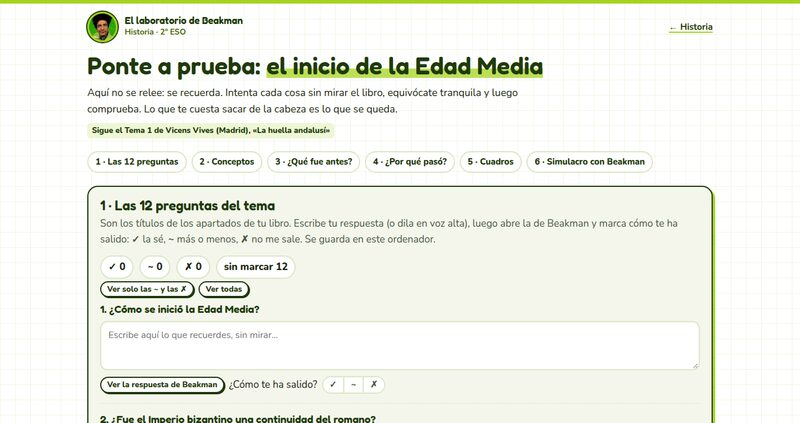
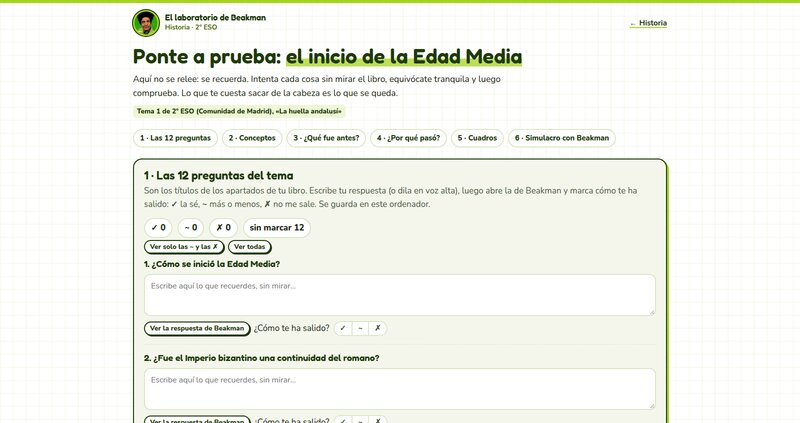
lab: recursos ordenados por tema dentro de cada curso; «Tema 1» también en Ciencias
- catalog.yml: campo unidad en cada recurso; build.py agrupa por él (en el orden del catálogo,
  «Para todo el curso» al final) con un título del color de la asignatura.
- Ciencias: «Física y Química · Tema 1 · La actividad científica».
- La miniatura de «Ponte a prueba» se rehace: la vieja aún llevaba el nombre de la editorial.

Changed region(s): [[0.0, 0.0, 1.0, 1.0]]

diff --git a/lab/site/es/ciencias/index.html b/lab/site/es/ciencias/index.html
@@ -13,7 +13,7 @@
 <link rel="preconnect" href="https://fonts.googleapis.com">
 <link rel="preconnect" href="https://fonts.gstatic.com" crossorigin>
 <link rel="stylesheet" href="https://fonts.googleapis.com/css2?family=Fredoka:wght@500;600;700&family=Nunito:ital,wght@0,400;0,600;0,700;0,800;1,400&display=swap">
-<link rel="stylesheet" href="../../lab.css?v=72c818f3">
+<link rel="stylesheet" href="../../lab.css?v=efac4fdf">
 </head>
 <body>
 <header class="wrap top">
@@ -30,21 +30,22 @@
   <a class="summary" href="2eso/resumen-actividad-cientifica/" style="--subj: #69DB7C">
     <img src="../../media/resumen-actividad-cientifica.jpg" alt="" width="800" height="423" loading="lazy">
     <div class="body">
-      <div class="meta"><span class="subj">Ciencias</span><span class="tag">2º ESO · Física y Química · La actividad científica</span></div>
+      <div class="meta"><span class="subj">Ciencias</span><span class="tag">2º ESO · Física y Química · Tema 1 · La actividad científica</span></div>
       <h3>La actividad científica, paso a paso</h3>
       <p>La unidad entera en una lectura: el método científico, las magnitudes, el Sistema Internacional, múltiplos y submúltiplos, el factor de conversión, medir bien y el laboratorio.</p>
     </div>
   </a>
 </div></section>
-<section class="all-resources"><h2>Recursos para practicar</h2>
+<section class="all-resources" style="--subj: #69DB7C"><h2>Recursos para practicar</h2>
 <h3 class="course">1º ESO</h3>
 <p class="empty">Todavía no hay recursos de 1º ESO. Están en el horno.</p>
 <h3 class="course">2º ESO</h3>
+<h4 class="unit">Tema 1 · La actividad científica</h4>
 <div class="resources">
   <a class="resource" href="2eso/que-es-una-magnitud/" style="--subj: #69DB7C">
     <img src="../../media/que-es-una-magnitud.jpg" alt="" width="800" height="423" loading="lazy">
     <div class="body">
-      <div class="meta"><span class="subj">Ciencias</span><span class="tag">Física y Química · La actividad científica</span><span class="pc"><svg viewBox="0 0 24 24" aria-hidden="true"><path d="M4 5h16v10H4zM2 19h20" fill="none" stroke="currentColor" stroke-width="2" stroke-linejoin="round" stroke-linecap="round"/></svg>Para ordenador</span></div>
+      <div class="meta"><span class="subj">Ciencias</span><span class="tag">Física y Química · Tema 1 · La actividad científica</span><span class="pc"><svg viewBox="0 0 24 24" aria-hidden="true"><path d="M4 5h16v10H4zM2 19h20" fill="none" stroke="currentColor" stroke-width="2" stroke-linejoin="round" stroke-linecap="round"/></svg>Para ordenador</span></div>
       <h3>¿Qué es una magnitud?</h3>
       <p>Clasifica qué se puede medir y qué no, mira a escala por qué «5» no dice nada y «5 m» sí, empareja cada magnitud con su unidad, su símbolo y su instrumento, y construye las magnitudes derivadas con bloques.</p>
       <dl class="why">
@@ -56,7 +57,7 @@
   <a class="resource" href="2eso/escalera-de-unidades/" style="--subj: #69DB7C">
     <img src="../../media/escalera-de-unidades.jpg" alt="" width="800" height="423" loading="lazy">
     <div class="body">
-      <div class="meta"><span class="subj">Ciencias</span><span class="tag">Física y Química · La actividad científica</span><span class="pc"><svg viewBox="0 0 24 24" aria-hidden="true"><path d="M4 5h16v10H4zM2 19h20" fill="none" stroke="currentColor" stroke-width="2" stroke-linejoin="round" stroke-linecap="round"/></svg>Para ordenador</span></div>
+      <div class="meta"><span class="subj">Ciencias</span><span class="tag">Física y Química · Tema 1 · La actividad científica</span><span class="pc"><svg viewBox="0 0 24 24" aria-hidden="true"><path d="M4 5h16v10H4zM2 19h20" fill="none" stroke="currentColor" stroke-width="2" stroke-linejoin="round" stroke-linecap="round"/></svg>Para ordenador</span></div>
       <h3>La escalera de las unidades</h3>
       <p>Sube y baja la escalera de km a mm (y de las unidades de masa y de capacidad), mira cómo se mueve la coma en cada escalón y aprende el truco del factor de conversión, con las unidades tachándose ante tus ojos.</p>
       <dl class="why">
@@ -68,7 +69,7 @@
   <a class="resource" href="2eso/mide-como-en-el-laboratorio/" style="--subj: #69DB7C">
     <img src="../../media/mide-como-en-el-laboratorio.jpg" alt="" width="800" height="423" loading="lazy">
     <div class="body">
-      <div class="meta"><span class="subj">Ciencias</span><span class="tag">Física y Química · La actividad científica</span><span class="pc"><svg viewBox="0 0 24 24" aria-hidden="true"><path d="M4 5h16v10H4zM2 19h20" fill="none" stroke="currentColor" stroke-width="2" stroke-linejoin="round" stroke-linecap="round"/></svg>Para ordenador</span></div>
+      <div class="meta"><span class="subj">Ciencias</span><span class="tag">Física y Química · Tema 1 · La actividad científica</span><span class="pc"><svg viewBox="0 0 24 24" aria-hidden="true"><path d="M4 5h16v10H4zM2 19h20" fill="none" stroke="currentColor" stroke-width="2" stroke-linejoin="round" stroke-linecap="round"/></svg>Para ordenador</span></div>
       <h3>Mide como en el laboratorio</h3>
       <p>Lee una regla, una probeta, un termómetro, una balanza y un cronómetro, compara la precisión de dos instrumentos, mide varias veces y haz la media, y caza los errores típicos al medir.</p>
       <dl class="why">

diff --git a/lab/site/es/index.html b/lab/site/es/index.html
@@ -13,7 +13,7 @@
 <link rel="preconnect" href="https://fonts.googleapis.com">
 <link rel="preconnect" href="https://fonts.gstatic.com" crossorigin>
 <link rel="stylesheet" href="https://fonts.googleapis.com/css2?family=Fredoka:wght@500;600;700&family=Nunito:ital,wght@0,400;0,600;0,700;0,800;1,400&display=swap">
-<link rel="stylesheet" href="../lab.css?v=72c818f3">
+<link rel="stylesheet" href="../lab.css?v=efac4fdf">
 </head>
 <body>
 <header class="wrap top">
@@ -55,7 +55,7 @@
   <a class="summary" href="ciencias/2eso/resumen-actividad-cientifica/" style="--subj: #69DB7C">
     <img src="../media/resumen-actividad-cientifica.jpg" alt="" width="800" height="423" loading="lazy">
     <div class="body">
-      <div class="meta"><span class="subj">Ciencias</span><span class="tag">2º ESO · Física y Química · La actividad científica</span></div>
+      <div class="meta"><span class="subj">Ciencias</span><span class="tag">2º ESO · Física y Química · Tema 1 · La actividad científica</span></div>
       <h3>La actividad científica, paso a paso</h3>
       <p>La unidad entera en una lectura: el método científico, las magnitudes, el Sistema Internacional, múltiplos y submúltiplos, el factor de conversión, medir bien y el laboratorio.</p>
     </div>
@@ -186,7 +186,7 @@
   <a class="resource" href="ciencias/2eso/que-es-una-magnitud/" style="--subj: #69DB7C">
     <img src="../media/que-es-una-magnitud.jpg" alt="" width="800" height="423" loading="lazy">
     <div class="body">
-      <div class="meta"><span class="subj">Ciencias</span><span class="tag">Física y Química · La actividad científica</span><span class="pc"><svg viewBox="0 0 24 24" aria-hidden="true"><path d="M4 5h16v10H4zM2 19h20" fill="none" stroke="currentColor" stroke-width="2" stroke-linejoin="round" stroke-linecap="round"/></svg>Para ordenador</span></div>
+      <div class="meta"><span class="subj">Ciencias</span><span class="tag">Física y Química · Tema 1 · La actividad científica</span><span class="pc"><svg viewBox="0 0 24 24" aria-hidden="true"><path d="M4 5h16v10H4zM2 19h20" fill="none" stroke="currentColor" stroke-width="2" stroke-linejoin="round" stroke-linecap="round"/></svg>Para ordenador</span></div>
       <h3>¿Qué es una magnitud?</h3>
       <p>Clasifica qué se puede medir y qué no, mira a escala por qué «5» no dice nada y «5 m» sí, empareja cada magnitud con su unidad, su símbolo y su instrumento, y construye las magnitudes derivadas con bloques.</p>
       <dl class="why">
@@ -198,7 +198,7 @@
   <a class="resource" href="ciencias/2eso/escalera-de-unidades/" style="--subj: #69DB7C">
     <img src="../media/escalera-de-unidades.jpg" alt="" width="800" height="423" loading="lazy">
     <div class="body">
-      <div class="meta"><span class="subj">Ciencias</span><span class="tag">Física y Química · La actividad científica</span><span class="pc"><svg viewBox="0 0 24 24" aria-hidden="true"><path d="M4 5h16v10H4zM2 19h20" fill="none" stroke="currentColor" stroke-width="2" stroke-linejoin="round" stroke-linecap="round"/></svg>Para ordenador</span></div>
+      <div class="meta"><span class="subj">Ciencias</span><span class="tag">Física y Química · Tema 1 · La actividad científica</span><span class="pc"><svg viewBox="0 0 24 24" aria-hidden="true"><path d="M4 5h16v10H4zM2 19h20" fill="none" stroke="currentColor" stroke-width="2" stroke-linejoin="round" stroke-linecap="round"/></svg>Para ordenador</span></div>
       <h3>La escalera de las unidades</h3>
       <p>Sube y baja la escalera de km a mm (y de las unidades de masa y de capacidad), mira cómo se mueve la coma en cada escalón y aprende el truco del factor de conversión, con las unidades tachándose ante tus ojos.</p>
       <dl class="why">
@@ -210,7 +210,7 @@
   <a class="resource" href="ciencias/2eso/mide-como-en-el-laboratorio/" style="--subj: #69DB7C">
     <img src="../media/mide-como-en-el-laboratorio.jpg" alt="" width="800" height="423" loading="lazy">
     <div class="body">
-      <div class="meta"><span class="subj">Ciencias</span><span class="tag">Física y Química · La actividad científica</span><span class="pc"><svg viewBox="0 0 24 24" aria-hidden="true"><path d="M4 5h16v10H4zM2 19h20" fill="none" stroke="currentColor" stroke-width="2" stroke-linejoin="round" stroke-linecap="round"/></svg>Para ordenador</span></div>
+      <div class="meta"><span class="subj">Ciencias</span><span class="tag">Física y Química · Tema 1 · La actividad científica</span><span class="pc"><svg viewBox="0 0 24 24" aria-hidden="true"><path d="M4 5h16v10H4zM2 19h20" fill="none" stroke="currentColor" stroke-width="2" stroke-linejoin="round" stroke-linecap="round"/></svg>Para ordenador</span></div>
       <h3>Mide como en el laboratorio</h3>
       <p>Lee una regla, una probeta, un termómetro, una balanza y un cronómetro, compara la precisión de dos instrumentos, mide varias veces y haz la media, y caza los errores típicos al medir.</p>
       <dl class="why">

diff --git a/lab/site/es/historia/index.html b/lab/site/es/historia/index.html
@@ -13,7 +13,7 @@
 <link rel="preconnect" href="https://fonts.googleapis.com">
 <link rel="preconnect" href="https://fonts.gstatic.com" crossorigin>
 <link rel="stylesheet" href="https://fonts.googleapis.com/css2?family=Fredoka:wght@500;600;700&family=Nunito:ital,wght@0,400;0,600;0,700;0,800;1,400&display=swap">
-<link rel="stylesheet" href="../../lab.css?v=72c818f3">
+<link rel="stylesheet" href="../../lab.css?v=efac4fdf">
 </head>
 <body>
 <header class="wrap top">
@@ -36,10 +36,11 @@
     </div>
   </a>
 </div></section>
-<section class="all-resources"><h2>Recursos para practicar</h2>
+<section class="all-resources" style="--subj: #FFD43B"><h2>Recursos para practicar</h2>
 <h3 class="course">1º ESO</h3>
 <p class="empty">Todavía no hay recursos de 1º ESO. Están en el horno.</p>
 <h3 class="course">2º ESO</h3>
+<h4 class="unit">Tema 1 · La huella andalusí</h4>
 <div class="resources">
   <a class="resource" href="2eso/ponte-a-prueba-tema-1/" style="--subj: #FFD43B">
     <img src="../../media/ponte-a-prueba-tema-1.jpg" alt="" width="800" height="423" loading="lazy">
@@ -50,18 +51,6 @@
       <dl class="why">
         <dt>Para qué sirve</dt><dd>Fijar el tema recordando sin mirar, que es lo que de verdad se queda, y saber qué partes faltan por repasar antes del examen.</dd>
         <dt>Cómo lo hace</dt><dd>Práctica de recuperación: primero contestas tú y luego comparas. Marcas cada pregunta como sabida, a medias o no sabida, y vuelves solo a las que fallan. Sigue el Tema 1 de 2º de la Comunidad de Madrid.</dd>
-      </dl>
-    </div>
-  </a>
-  <a class="resource" href="2eso/cronomapa-edad-media/" style="--subj: #FFD43B">
-    <img src="../../media/cronomapa-edad-media.jpg" alt="" width="800" height="423" loading="lazy">
-    <div class="body">
-      <div class="meta"><span class="subj">Historia</span><span class="tag">Toda la Edad Media</span><span class="pc"><svg viewBox="0 0 24 24" aria-hidden="true"><path d="M4 5h16v10H4zM2 19h20" fill="none" stroke="currentColor" stroke-width="2" stroke-linejoin="round" stroke-linecap="round"/></svg>Para ordenador</span></div>
-      <h3>Cronomapa de la Edad Media</h3>
-      <p>Mueve la barra del 476 al 1492 y mira qué reinos, ciudades y batallas coincidieron en el tiempo. Cada acontecimiento cuenta qué cambió, al poco y a la larga.</p>
-      <dl class="why">
-        <dt>Para qué sirve</dt><dd>Ver qué existía a la vez, que es lo que más cuesta de la Edad Media. Situar cada reino, ciudad y batalla en el mapa y en el tiempo, y entender cómo un acontecimiento lleva al siguiente.</dd>
-        <dt>Cómo lo hace</dt><dd>Aprender explorando: el tiempo lo mueves tú. En diez paradas Beakman te hace una pregunta para pensar antes de ver la pista. Cada acontecimiento explica sus consecuencias en la gente, la política, el arte y la cultura, y las palabras difíciles tienen su explicación al pasar el ratón.</dd>
       </dl>
     </div>
   </a>
@@ -158,6 +147,21 @@
       <dl class="why">
         <dt>Para qué sirve</dt><dd>Ver qué pasaba a la vez en las tres civilizaciones del Mediterráneo, que es lo que más cuesta del tema, y situar cada fecha clave en su etapa.</dd>
         <dt>Cómo lo hace</dt><dd>Una regla que mueves tú corta los tres carriles y te cuenta qué existía en ese año y qué pasó cerca. En papel, un A4 apaisado para tenerlo delante al estudiar.</dd>
+      </dl>
+    </div>
+  </a>
+</div>
+<h4 class="unit">Para todo el curso</h4>
+<div class="resources">
+  <a class="resource" href="2eso/cronomapa-edad-media/" style="--subj: #FFD43B">
+    <img src="../../media/cronomapa-edad-media.jpg" alt="" width="800" height="423" loading="lazy">
+    <div class="body">
+      <div class="meta"><span class="subj">Historia</span><span class="tag">Toda la Edad Media</span><span class="pc"><svg viewBox="0 0 24 24" aria-hidden="true"><path d="M4 5h16v10H4zM2 19h20" fill="none" stroke="currentColor" stroke-width="2" stroke-linejoin="round" stroke-linecap="round"/></svg>Para ordenador</span></div>
+      <h3>Cronomapa de la Edad Media</h3>
+      <p>Mueve la barra del 476 al 1492 y mira qué reinos, ciudades y batallas coincidieron en el tiempo. Cada acontecimiento cuenta qué cambió, al poco y a la larga.</p>
+      <dl class="why">
+        <dt>Para qué sirve</dt><dd>Ver qué existía a la vez, que es lo que más cuesta de la Edad Media. Situar cada reino, ciudad y batalla en el mapa y en el tiempo, y entender cómo un acontecimiento lleva al siguiente.</dd>
+        <dt>Cómo lo hace</dt><dd>Aprender explorando: el tiempo lo mueves tú. En diez paradas Beakman te hace una pregunta para pensar antes de ver la pista. Cada acontecimiento explica sus consecuencias en la gente, la política, el arte y la cultura, y las palabras difíciles tienen su explicación al pasar el ratón.</dd>
       </dl>
     </div>
   </a>

diff --git a/lab/site/lab.css b/lab/site/lab.css
@@ -150,3 +150,7 @@ footer .wrap { display: flex; flex-wrap: wrap; gap: 8px 22px; justify-content: s
 .summaries > h2 { margin-bottom: 2px; }
 h3.course { font-size: 1.3rem; margin: 6px 0 14px; }
 h3.course:not(:first-of-type) { margin-top: 28px; }
+/* cada tema dentro de un curso */
+h4.unit { font: 600 1.08rem/1.2 var(--display); color: var(--ink); margin: 18px 0 10px; padding-left: 10px;
+  border-left: 5px solid var(--subj, var(--lime)); }
+h3.course + h4.unit { margin-top: 4px; }

diff --git a/lab/site/404.html b/lab/site/404.html
@@ -13,7 +13,7 @@
 <link rel="preconnect" href="https://fonts.googleapis.com">
 <link rel="preconnect" href="https://fonts.gstatic.com" crossorigin>
 <link rel="stylesheet" href="https://fonts.googleapis.com/css2?family=Fredoka:wght@500;600;700&family=Nunito:ital,wght@0,400;0,600;0,700;0,800;1,400&display=swap">
-<link rel="stylesheet" href="/lab.css?v=72c818f3">
+<link rel="stylesheet" href="/lab.css?v=efac4fdf">
 </head>
 <body>
 <header class="wrap top">

diff --git a/lab/build.py b/lab/build.py
@@ -112,6 +112,20 @@ def summary_card(t, r, s, lang, up, prefix):
 """
 
 
+GENERAL = "Para todo el curso"
+
+
+def por_unidad(recursos, tarjeta, lang) -> str:
+    """Los recursos de un curso agrupados por su unidad (catalog.yml), en el orden del catálogo; «Para todo el
+    curso» al final. Cada grupo con su título."""
+    grupos: dict[str, list] = {}
+    for r in recursos:
+        grupos.setdefault(r[lang].get("unidad") or GENERAL, []).append(r)
+    orden = [u for u in grupos if u != GENERAL] + ([GENERAL] if GENERAL in grupos else [])
+    return "\n".join(f'<h4 class="unit">{e(u)}</h4>\n<div class="resources">\n{"".join(tarjeta(r) for r in grupos[u])}</div>'
+                     for u in orden)
+
+
 def build():
     cat = load("catalog.yml")
     langs = cat["idiomas"]
@@ -170,10 +184,10 @@ def build():
             courses = []
             for c in cat["cursos"]:
                 rc = [r for r in mine if r["curso"] == c and not is_summary(r)]
-                inner = (f'<div class="resources">\n{"".join(resource_card(t, r, s, lang, "../../", "") for r in rc)}</div>' if rc
+                inner = (por_unidad(rc, lambda r: resource_card(t, r, s, lang, "../../", ""), lang) if rc
                          else f'<p class="empty">{e(t["sin_recursos"].format(curso=t["cursos"][c]))}</p>')
                 courses.append(f'<h3 class="course">{e(t["cursos"][c])}</h3>\n{inner}')
-            parts.append(f'<section class="all-resources"><h2>{e(t["recursos"])}</h2>\n{chr(10).join(courses)}</section>')
+            parts.append(f'<section class="all-resources" style="--subj: {s["color"]}"><h2>{e(t["recursos"])}</h2>\n{chr(10).join(courses)}</section>')
             body = f"""<p class="crumb"><a href="../">← {e(t["volver"])}</a></p>
 <div class="subject-head"><div class="polaroid"><img src="../../media/{s["foto"]}" alt=""></div>
   <div><h1>{e(st["nombre"])}</h1><p>{e(st["lema"])}</p></div></div>
